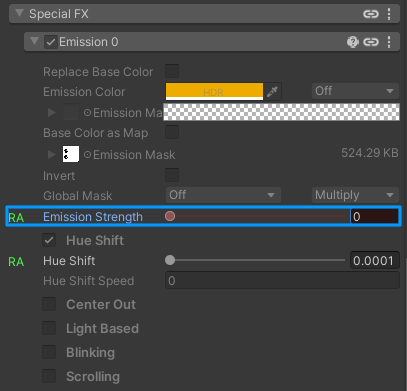
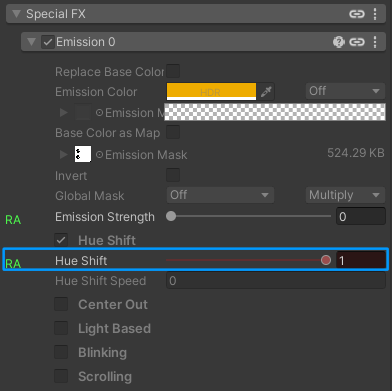
Fixing instruction image.

diff --git a/index.html b/index.html
@@ -78,7 +78,7 @@
                         <li>Select the color_0 animation and click the record button.<img alt="Instructions 03 03" height="178" src="images/instructions_03_03.png" width="506"></li>
                         <li>Set the Hue Shift property to 0.<img alt="Instructions 03 04" height="392" src="images/instructions_03_04.png" width="409"></li>
                         <li>Select the color_1 animation and click the record button.<img alt="Instructions 03 06" height="178" src="images/instructions_03_06.png" width="506"></li>
-                        <li>Set the Hue Shift property to 1.<img alt="Instructions 03 07" height="392" src="images/instructions_03_07.png" width="409"></li>
+                        <li>Set the Hue Shift property to 1.<img alt="Instructions 03 07" height="392" src="images/instructions_03_07.png" width="391"></li>
                         <li>Select the body_lightning_0 animation and click the record button.<img alt="Instructions 03 08" height="136" src="images/instructions_03_08.png" width="620"></li>
                         <li>Set the Emission Strength property to 0.<img alt="Instructions 03 09" height="391" src="images/instructions_03_09.png" width="407"></li>
                         <li>Select the body_lightning_1 animation and click the record button.<img alt="Instructions 03 10" height="136" src="images/instructions_03_10.png" width="620"></li>
